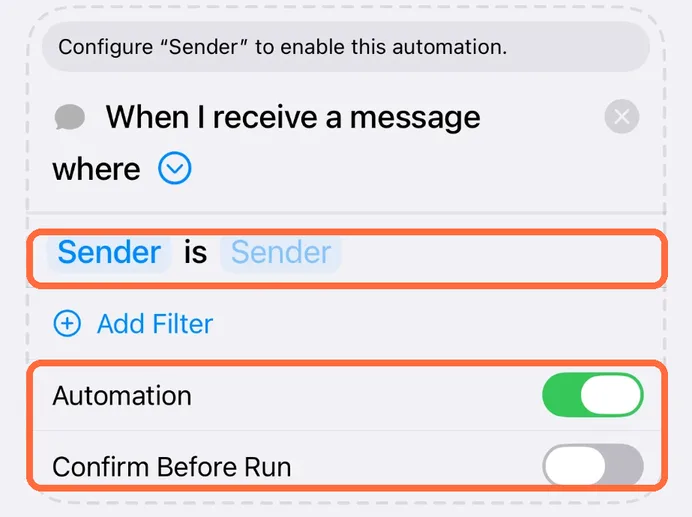
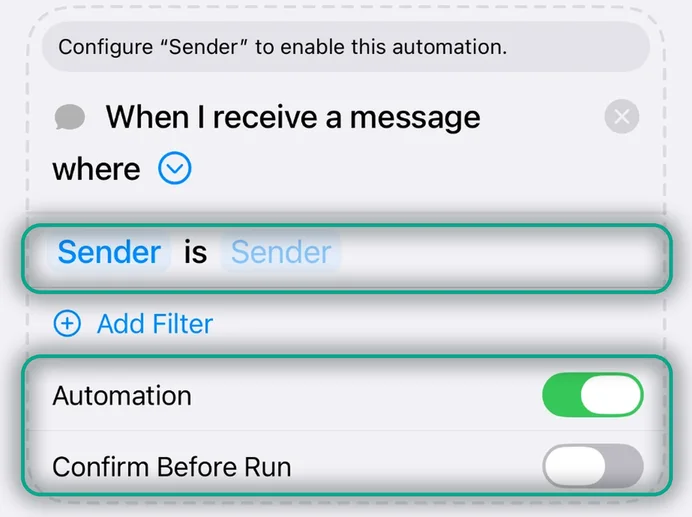
style: highlight the guide snippets with a green outline instead of orange
Claude-Session: https://claude.ai/code/session_01QWyhP9rc1kguACVSeBNZgL

Changed region(s): [[0.0, 0.4023, 1.0, 0.619], [0.0, 0.6499, 1.0, 0.9903]]

diff --git a/docs/03-app-flow.md b/docs/03-app-flow.md
@@ -90,4 +90,4 @@ Bottom tab bar (Cupertino): **Home, Transactions, Obligations, Insights, More**.
 - **Last 7 days chart (2026-11-05):** the "x total" figure is gone (it mixed in days of the previous month and did not match "Spent this month"). Tap a bar to turn it green and see a bubble above it with that day's amount and date; tap it again, or another bar, to move or hide the bubble. With nothing tapped, today is the green bar.
 - **Dark mode pass, part 1 (2026-11-05, from the owner's dark-mode screenshots):** (1) the stacked "Where it went" bar on Home was never drawn (its segments had zero height) and left a blank gap; the same missing-height bug hid the fill of the Insights budget bars. Fixed, with a test that the segments are 14 pt high. (2) Activity rows and the Insights category list use each category's own icon (cart, cup, hotel, graduation cap...) instead of the group icon; the colour stays the group's.
 - **Dark mode pass, part 2 (2026-11-05):** the lock screen now dims the grey launch blocks and puts "Locked", the message and the Unlock button on a card. The SMS capture status reads "Last sent 11:20" or "Last send failed (500)" instead of "11:20:28 HTTP 200". Transport has a bus icon (Car keeps the car). Forgot password is on the public-release list.
-- **Shortcut guide (2026-11-05):** More > SMS capture has a "Show me how, step by step" button that opens a swipeable bottom sheet (92% height) of 7 pages: step label, title, a snippet cropped from the owner's real Shortcuts screenshots with the tap target outlined in orange (`app/assets/guide/step1..7.webp`), and a short explanation, English and Arabic. Back / Next, dots, Done on the last page, swipe works (reversed in Arabic). The snippets are English-iOS screenshots; if Apple's wording changes, regenerate them from new screenshots.
+- **Shortcut guide (2026-11-05):** More > SMS capture has a "Show me how, step by step" button that opens a swipeable bottom sheet (92% height) of 7 pages: step label, title, a snippet cropped from the owner's real Shortcuts screenshots with the tap target outlined in the app green (`app/assets/guide/step1..7.webp`), and a short explanation, English and Arabic. Back / Next, dots, Done on the last page, swipe works (reversed in Arabic). The snippets are English-iOS screenshots; if Apple's wording changes, regenerate them from new screenshots.
